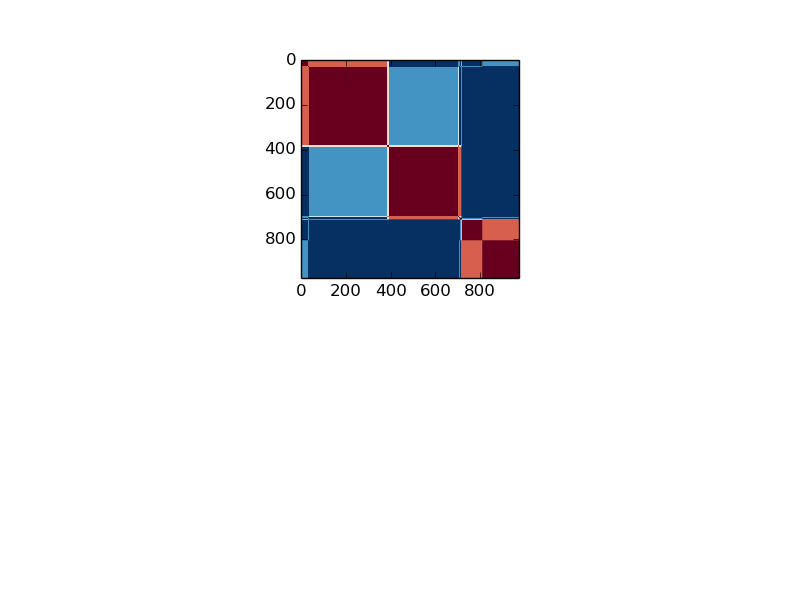
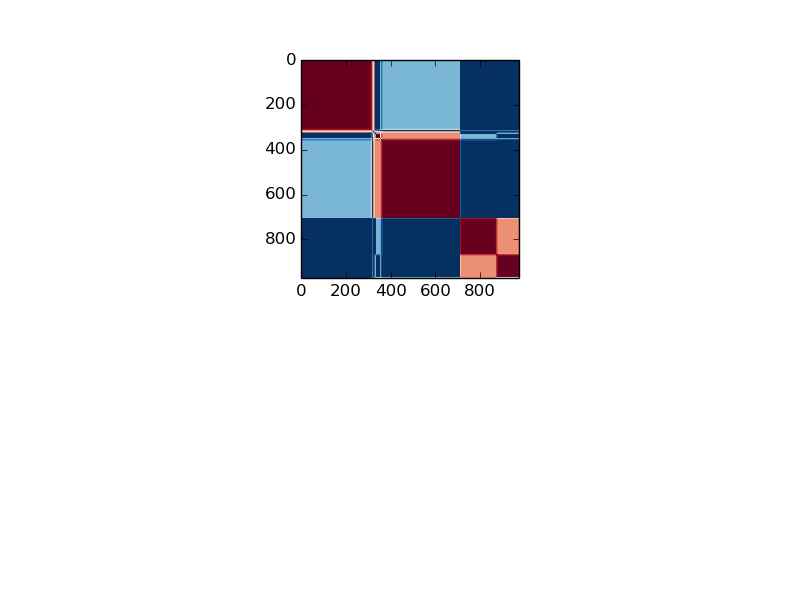
Ran artificial data, Replaced breast cancer data
Replaced breast cancer results with those generated with 100 runs.  All
artificial results calculated with 25 runs.

Changed region(s): [[0.375, 0.09, 0.6562, 0.48]]

diff --git a/Scripts/phase_4_Nimfa.py b/Scripts/phase_4_Nimfa.py
@@ -10,9 +10,9 @@ from matplotlib.pyplot import savefig, imshow, set_cmap
 
 
 home_directory = os.path.abspath('..')
-data_directory = home_directory + '/Data/BreastCancerOriginal/'
-results_directory = home_directory + '/Output/BreastCancerOriginal/'
-input_file = 'breast_cancer.csv'
+data_directory = home_directory + '/Data/Artificial/'
+results_directory = home_directory + '/Output/Artificial/'
+input_file = 'artificial50pct.csv'
 header_file = ''
 
 def readAndRun(input_file, header_file, output_directory, k_bottom, k_top, runs, algorithm):
@@ -142,9 +142,9 @@ def generateHeatPlot(tumor, header_list, matrix, W, H):
 def main():
     # run it (input_file, output_directory, k_bottom, k_top, runs, algorithm)
     # run using Sparse NMF
-    readAndRun(data_directory + input_file, data_directory + header_file, results_directory, 3, 7, 5, 'S')
+    readAndRun(data_directory + input_file, data_directory + header_file, results_directory, 3, 7, 25, 'S')
     # run using Standard NMF
-    readAndRun(data_directory + input_file, data_directory + header_file, results_directory, 3, 7, 5, 'N')
+    #readAndRun(data_directory + input_file, data_directory + header_file, results_directory, 3, 7, 5, 'N')
 
 if __name__ == '__main__':
     main()
